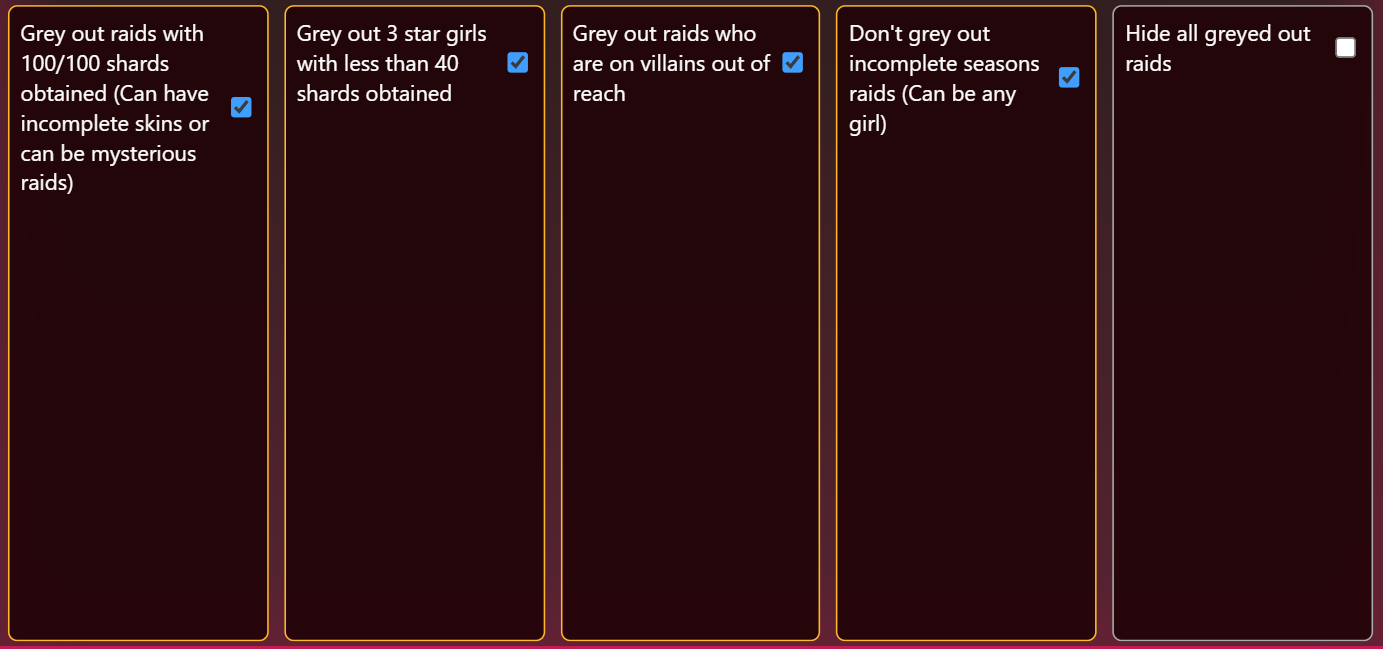
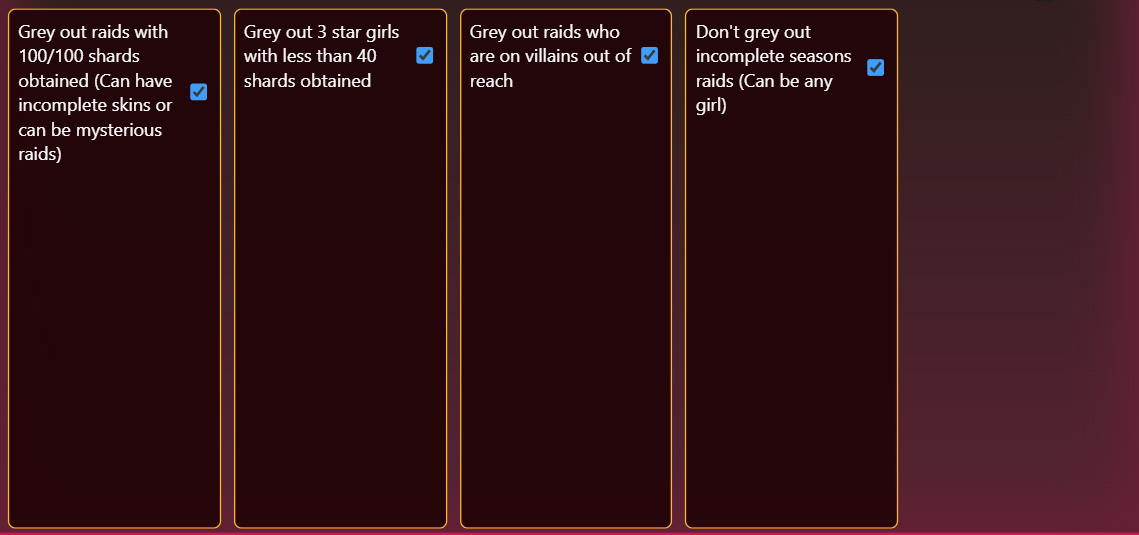
remove hide raid option and remove several pds

Changed region(s): [[0.0, 0.0, 1.0, 1.0], [0.3687, 0.7178, 0.4302, 0.9869]]

diff --git a/several_raids.user.js b/several_raids.user.js
@@ -2,7 +2,7 @@
 // @name         Several Raids
 // @namespace    hh-several-raids
 // @author       arush
-// @version      1.14.5
+// @version      1.14.6
 // @description  Grey out or hide raid cards based on shard progress, villain id, or star level (Only Tested on hentaiheroes).
 // @match        *://*.hentaiheroes.com/*
 // @match        *://*.haremheroes.com/*
@@ -158,9 +158,7 @@ async function severalRaids() {
             greyOutHigherIdThanLastVillain:
                 { enabled: true },
             dontHideSeasons:
-                { enabled: false },
-            hideSeveralRaids:
-                { enabled: false },
+                { enabled: false }
         };
 
         // changing config requires HH++
@@ -236,21 +234,6 @@ async function severalRaids() {
         });
         config.dontHideSeasons.enabled = false;
 
-        registerModule({
-            group: 'SeveralRaids',
-            configSchema: {
-                baseKey: 'hideSeveralRaids',
-                label: 'Hide all greyed out raids',
-                default: false,
-            },
-            run() {
-                config.hideSeveralRaids = {
-                    enabled: true,
-                };
-            }
-        });
-        config.hideSeveralRaids.enabled = false;
-
         hhLoadConfig();
         runModules();
 
@@ -280,10 +263,6 @@ async function severalRaids() {
     greyOutRaids(CONFIG);
     if (document.querySelector('.script-fight-a-villain-menu')) {
         saveLastVillain();
-    }
-
-    if (CONFIG.hideSeveralRaids.enabled) {
-        GM_addStyle(`.raid-card.grey-overlay { display: none !important; }`);
     }
 
     // Watch for new raid cards dynamically (with short debounce)
